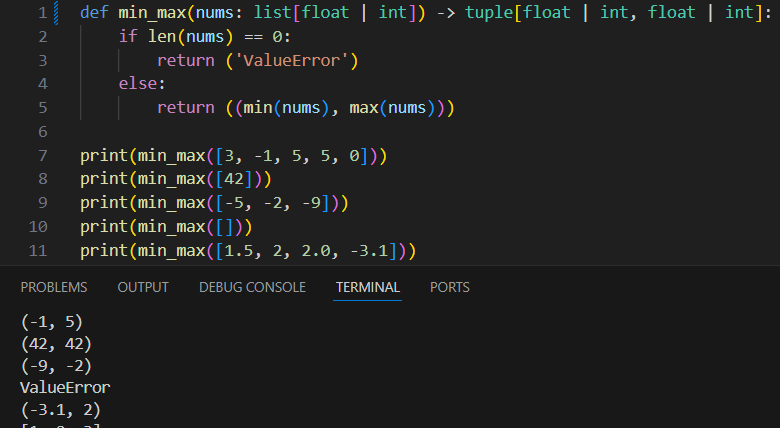
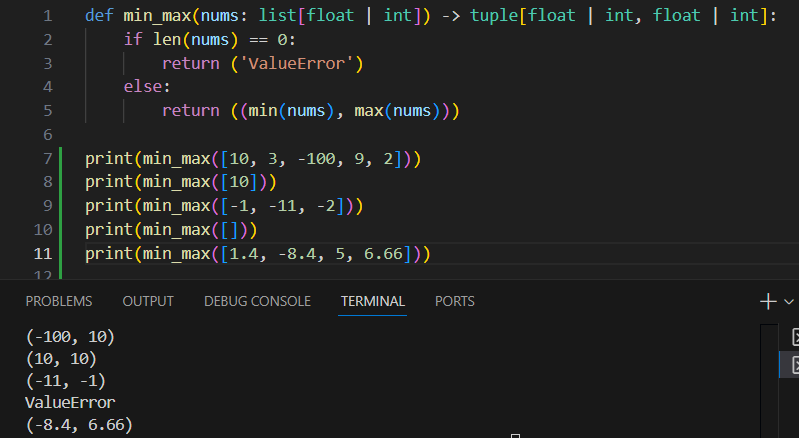
"fdjhgf"

diff --git a/src/lab02/matrix.py b/src/lab02/matrix.py
@@ -11,7 +11,13 @@ def transpose(mat: list[list[float | int]]) -> list[list]:
             new_matrix[y][x] = mat[x][y]
     return new_matrix
 
+print(transpose([[4, 1, 5]]))
+print(transpose([[5], [10], [1]]))
+print(transpose([]))
+print(transpose([[11, 12], [9, 10]]))
+print(transpose([[1111], [1, 2, 3]]))
 
+print()
 def row_sums(mat: list[list[float | int]]) -> list[float]:
     if any(len(mat[0]) != len(mat[i]) for i in range(len(mat))):
         return 'ValueError'
@@ -24,7 +30,12 @@ def row_sums(mat: list[list[float | int]]) -> list[float]:
         summa.append(sum(mat[arr]))
     return summa
 
+print(row_sums([[100, 1, 12], [1, 2, 3]]))
+print(row_sums([[-10, 0], [-9, 1]]))
+print(row_sums([[0, 0, 0], [0, 0, 0]]))
+print(row_sums([[1, 2], [3]]))
 
+print()
 def col_sums(mat: list[list[float | int]]) -> list[float]:
     if any(len(mat[0]) != len(mat[i]) for i in range(len(mat))):
         return 'ValueError'
@@ -38,3 +49,7 @@ def col_sums(mat: list[list[float | int]]) -> list[float]:
             summa[y] += (mat[x][y])
     return summa
 
+print(col_sums([[2, 3, 6], [1, 4, 5]]))
+print(col_sums([[-1000, 10], [-1, -4]]))
+print(col_sums([[0], [0]]))
+print(col_sums([[1], [5, 8, 0]]))

diff --git a/src/lab02/arrays.py b/src/lab02/arrays.py
@@ -4,11 +4,21 @@ def min_max(nums: list[float | int]) -> tuple[float | int, float | int]:
     else:
         return ((min(nums), max(nums)))
 
+print(min_max([10, 3, -100, 9, 2]))
+print(min_max([10]))
+print(min_max([-1, -11, -2]))
+print(min_max([]))
+print(min_max([1.4, -8.4, 5, 6.66]))
+
 
 def unique_sorted(nums: list[float | int]) -> list[float | int]:
     nums.sort()
     return [*set(nums)]
 
+print(unique_sorted([5, 1, 1, 2, 5]))
+print(unique_sorted([]))
+print(unique_sorted([-2, 0, -342, -2, 10]))
+print(unique_sorted([1.3, 1.2, 0, -4.5]))
 
 def flatten(mat: list[list | tuple]) -> list:
     answer = []
@@ -19,3 +29,8 @@ def flatten(mat: list[list | tuple]) -> list:
             for member in arr:
                 answer.append(member)
     return answer
+
+print(flatten([[10, 2], [1, 5]]))
+print(flatten([[10, 24], (11, 1, 5)]))
+print(flatten([[], [23], [1, 2]]))
+print(flatten(["sfggd", [10, 11, 120]]))
